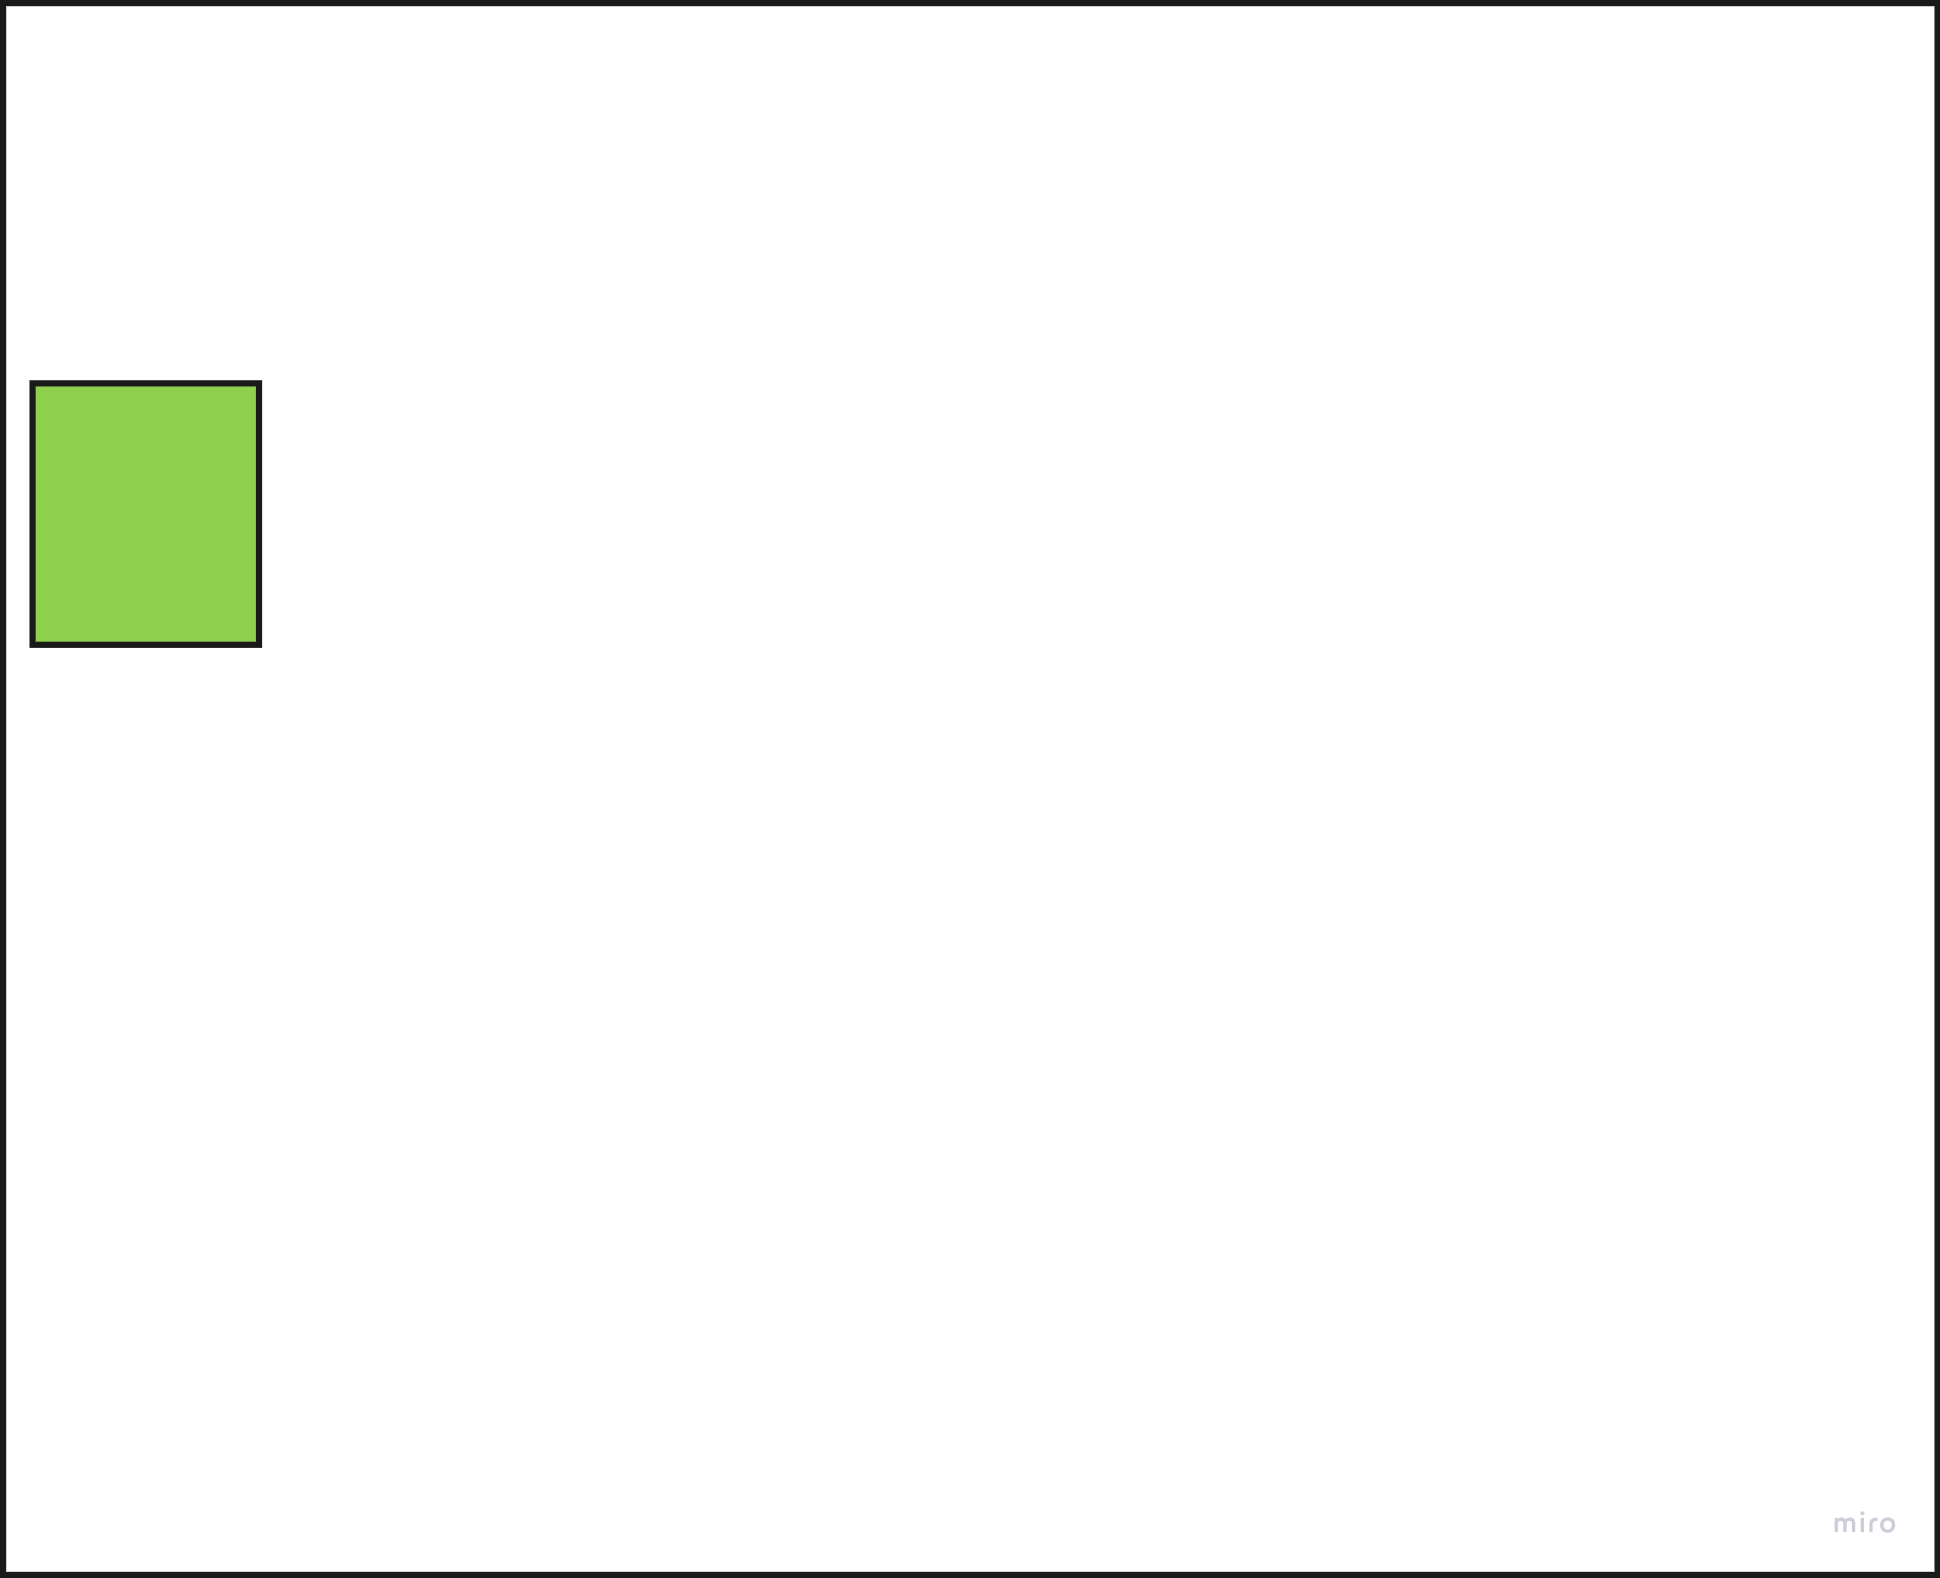
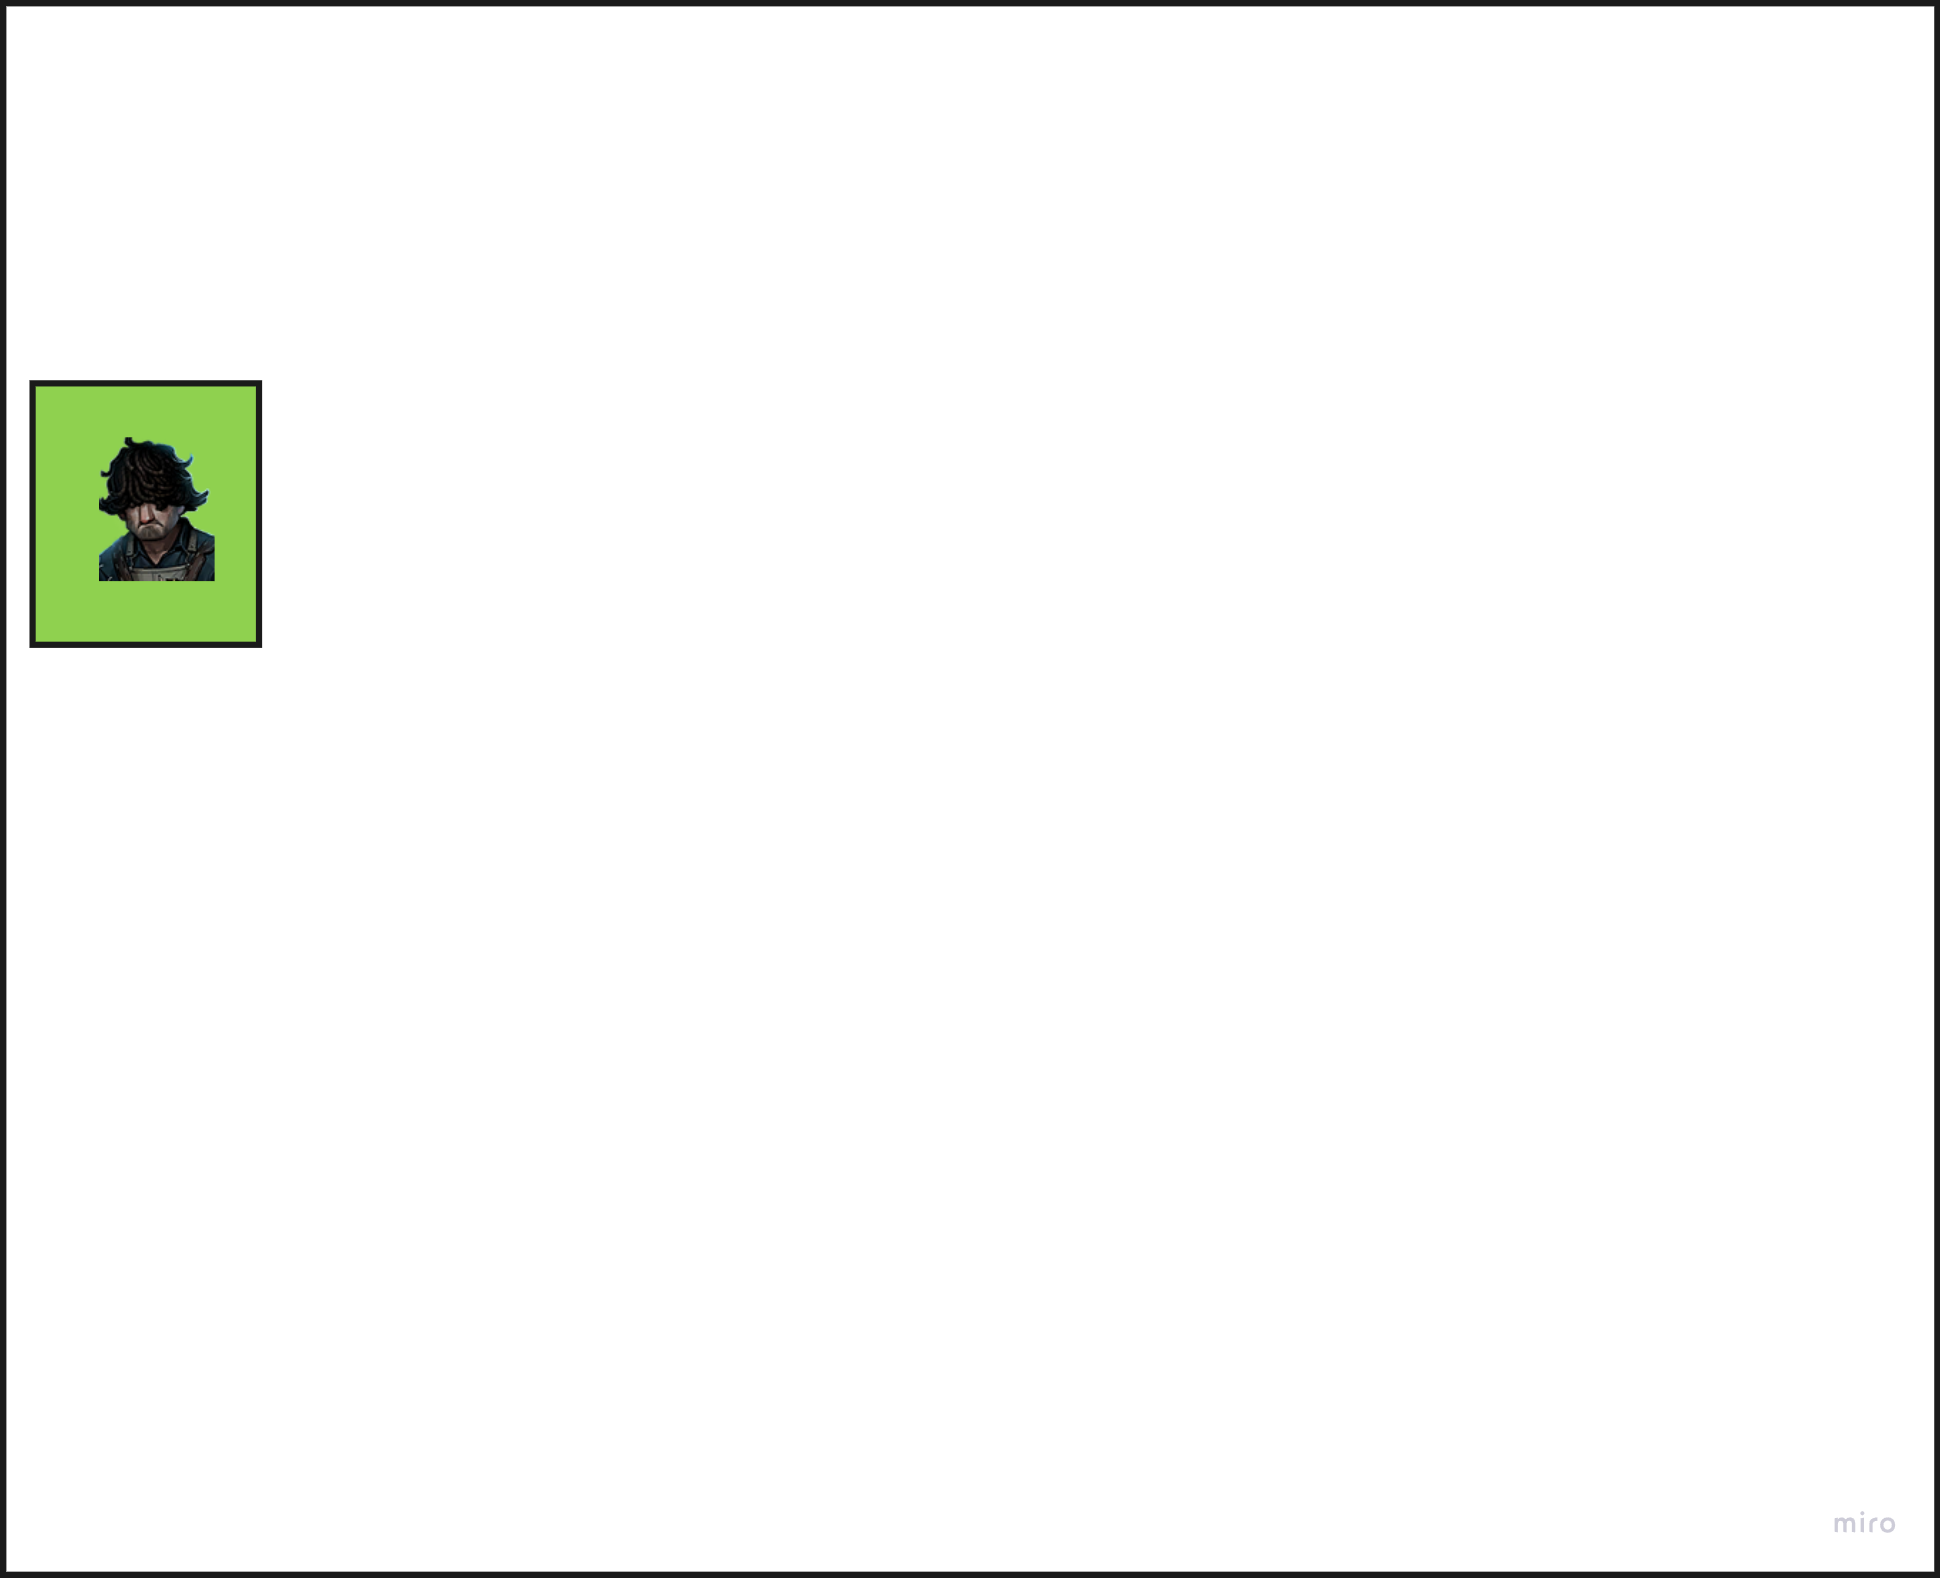
limited Selected Hunter charcter weakness to show on only the selected charcters

Changed region(s): [[0.0309, 0.2795, 0.1237, 0.3726]]

diff --git a/src/components/Canvas.js b/src/components/Canvas.js
@@ -139,17 +139,13 @@ function Canvas(props) {
     context.globalAlpha = 1;
 
     DM.Draw_5_Selection_Layer_BG     (GlobalList.getSelected(),context,canvas.width, canvas.height)
-    if (layerID0 !== -1) {
-      context.drawImage(images0[layerID0-1], 0, 0, canvas.width, canvas.height)     ;     context.drawImage(images0[layerID0-1], 0, 0, canvas.width, canvas.height); 
-      // 4 - Draw Grey Charcters
-      context.globalAlpha = 0.4;
-      context.filter = 'grayscale(1)';
+    if (layerID0 !== -1) {// if there is a hunter that's selected
+      DM.DrawLayerWithSelectedMask(GlobalList.getSelected(),images0[layerID0-1],context,canvas.width, canvas.height)
+      context.globalAlpha = 0.3;
       context.drawImage(N4_Grey_CharctersImg, 0, 0, canvas.width, canvas.height);
-      context.filter = "none";
-      context.globalAlpha = 1;    
+      context.globalAlpha = 1;
     }
-    DM.Draw_51_Selection_Layer        (GlobalList.getSelected(),context,canvas.width, canvas.height)
-   
+    DM.Draw_51_Selection_Layer       (GlobalList.getSelected(),context,canvas.width, canvas.height)
     DM.Draw_6_Clean_Hunter_Layer     (GlobalList.getBannedRemoved(),context,canvas.width, canvas.height)
     DM.Draw_7_Black_Lines_Gone_Layer (GlobalList.getBannedRemoved(),context,canvas.width, canvas.height)
 

diff --git a/src/components/DrawingMethods.js b/src/components/DrawingMethods.js
@@ -231,6 +231,24 @@ function DrawLayerWithCircleAnimation(C,RayonPropertyToUse,img,context,width,hei
   context.restore();
 }
 
+export function DrawLayerWithSelectedMask(charcterNames,img,context,width,height){
+
+  context.save()
+  context.beginPath();
+  for (let i=0;i<4;i++){
+    const CharcterName = charcterNames[i]
+    if (CharcterName.length <=2 ) continue
+    const C = CCM[CharcterName]
+    context.moveTo(C.x1+50,C.y1);
+    context.arc(C.x1,C.y1, 50, 0, Math.PI * 2);
+    // context.strokeStyle = "#FF0000";
+    // context.stroke();
+  }
+  context.clip();
+  context.drawImage(img, 0, 0, width, height);
+  context.restore();
+}
+
 export function AnimationNotOver(CCM){
   let restart = false
   for (const CharcterId in CCM){
